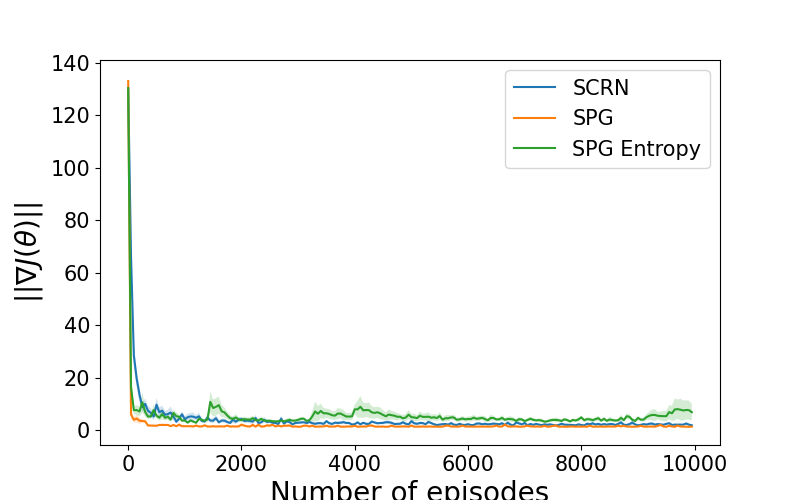
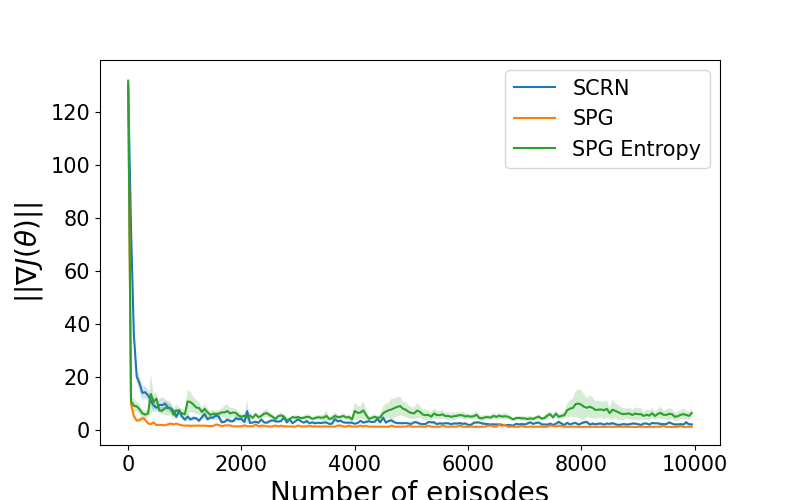
Updates after meeting

diff --git a/environments/hole.py b/environments/hole.py
@@ -5,15 +5,14 @@ from gym.spaces import Discrete
 
 class Hole(BaseMaze):
     def __init__(self, **kwargs):
-        self.x = np.array([[0, 0, 0, 0, 0, 0, 0],
-                           [0, 0, 0, 0, 0, 0, 0],
-                           [0, 0, 0, 0, 0, 0, 0],
-                           [0, 0, 1, 0, 1, 0, 0],
-                           [0, 0, 1, 0, 1, 0, 0],
-                           [0, 0, 1, 1, 1, 0, 0],
-                           [0, 0, 0, 0, 0, 0, 0]])
-        self.start_idx = [[6, 0]]
-        self.goal_idx = [[4, 3]]
+        self.x = np.array([[0, 0, 0, 0, 0, 0, 0, 0, 0],
+                           [0, 0, 0, 0, 0, 0, 0, 0, 0],
+                           [0, 0, 0, 1, 0, 1, 0, 0, 0],
+                           [0, 0, 0, 1, 0, 1, 0, 0, 0],
+                           [0, 0, 0, 1, 1, 1, 0, 0, 0],
+                           [0, 0, 0, 0, 0, 0, 0, 0, 0]])
+        self.start_idx = [[5, 0]]
+        self.goal_idx = [[3, 4]]
         super().__init__(**kwargs)
 
     @property
@@ -38,8 +37,8 @@ class RandomHole(BaseEnv):
         self.motions = VonNeumannMotion()
         self.x = self.maze.x
 
-        self.start_idx = [[6, 0]]
-        self.goal_idx = [[4, 3]]
+        self.start_idx = [[5, 0]]
+        self.goal_idx = [[3, 4]]
 
         self.observation_space = Box(low=0, high=len(self.maze.objects), shape=self.maze.size, dtype=np.uint8)
         self.num_states = self.maze.size[0] * self.maze.size[1]
@@ -55,7 +54,7 @@ class RandomHole(BaseEnv):
 
     @staticmethod
     def get_optimal_path():
-        return [-0.1, -0.1, -0.1, -0.1, -0.1, -0.1, -0.1, -0.1, 100]
+        return [-0.1, -0.1, -0.1, -0.1, -0.1, -0.1, -0.1, -0.1, -0.1, -0.1, 100]
 
     def step(self, action):
         motion = self.motions[action]

diff --git a/run.py b/run.py
@@ -1,7 +1,7 @@
 import pickle
 import matplotlib.pyplot as plt
 
-environment = "umaze"  # among random_maze, Umaze, hole, cliff
+environment = "hole"  # among random_maze, Umaze, hole, cliff
 
 if environment == "random_maze":  # select random maze
     from mazes.training_utils import *
